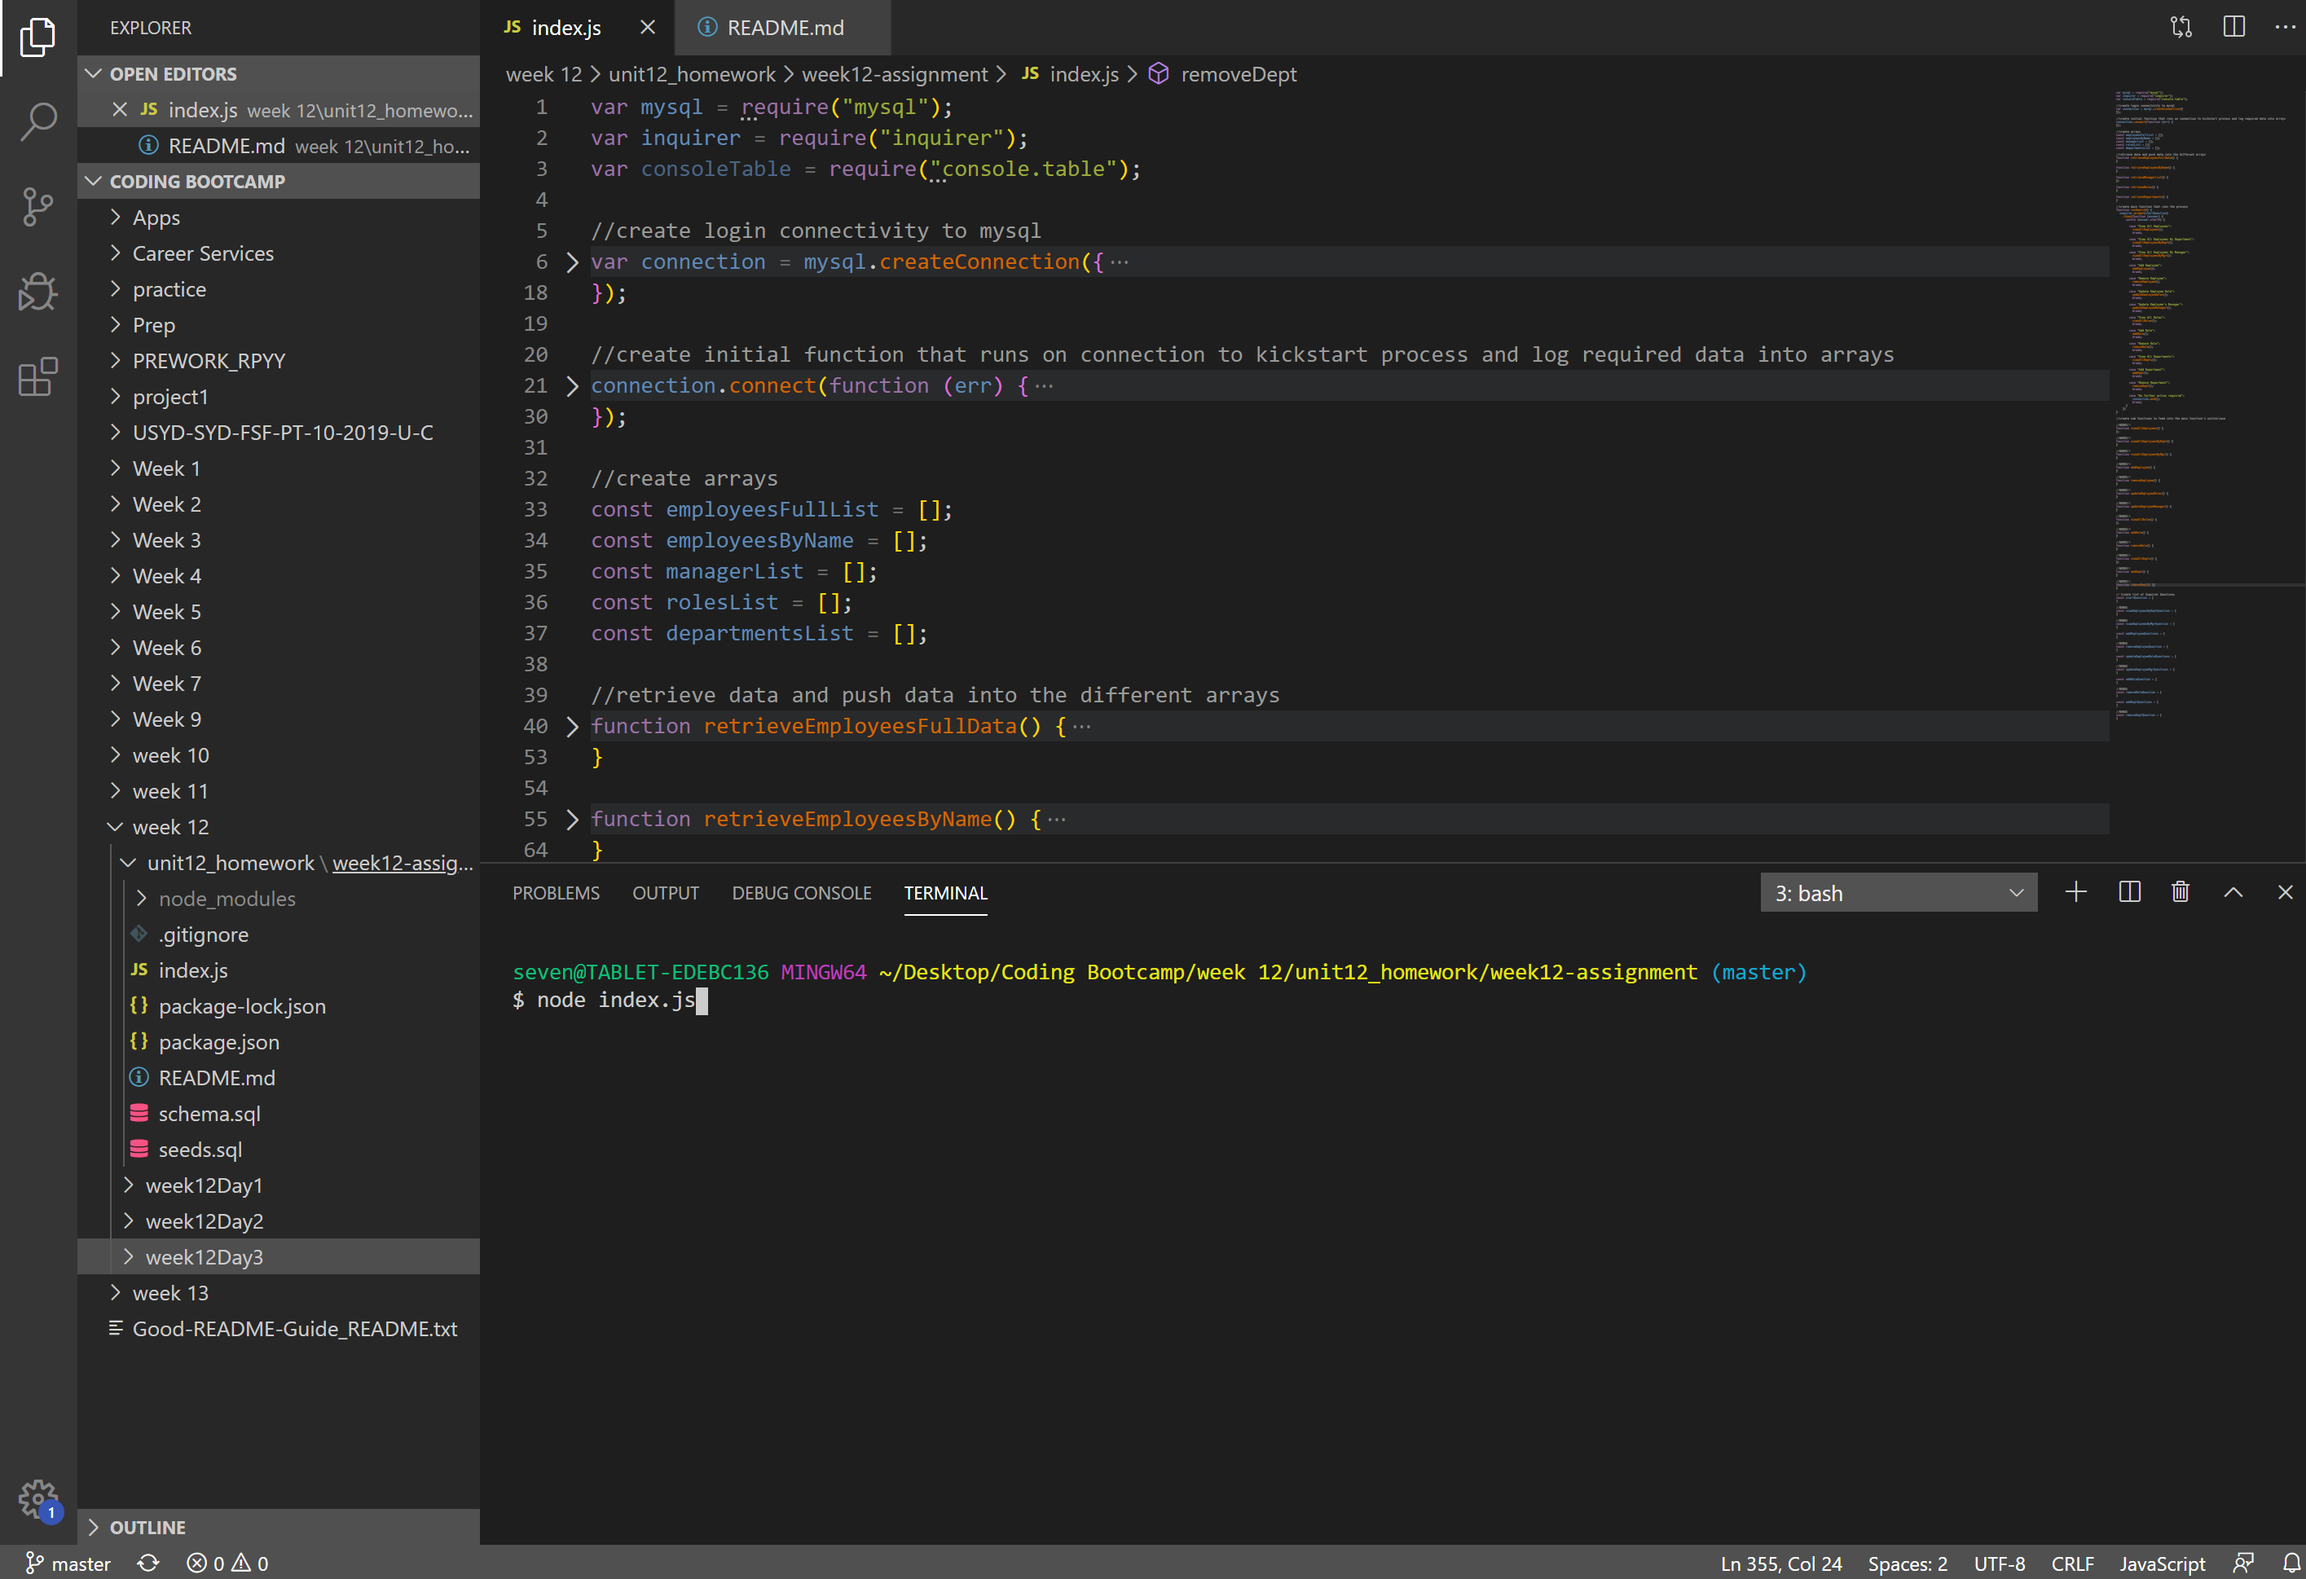
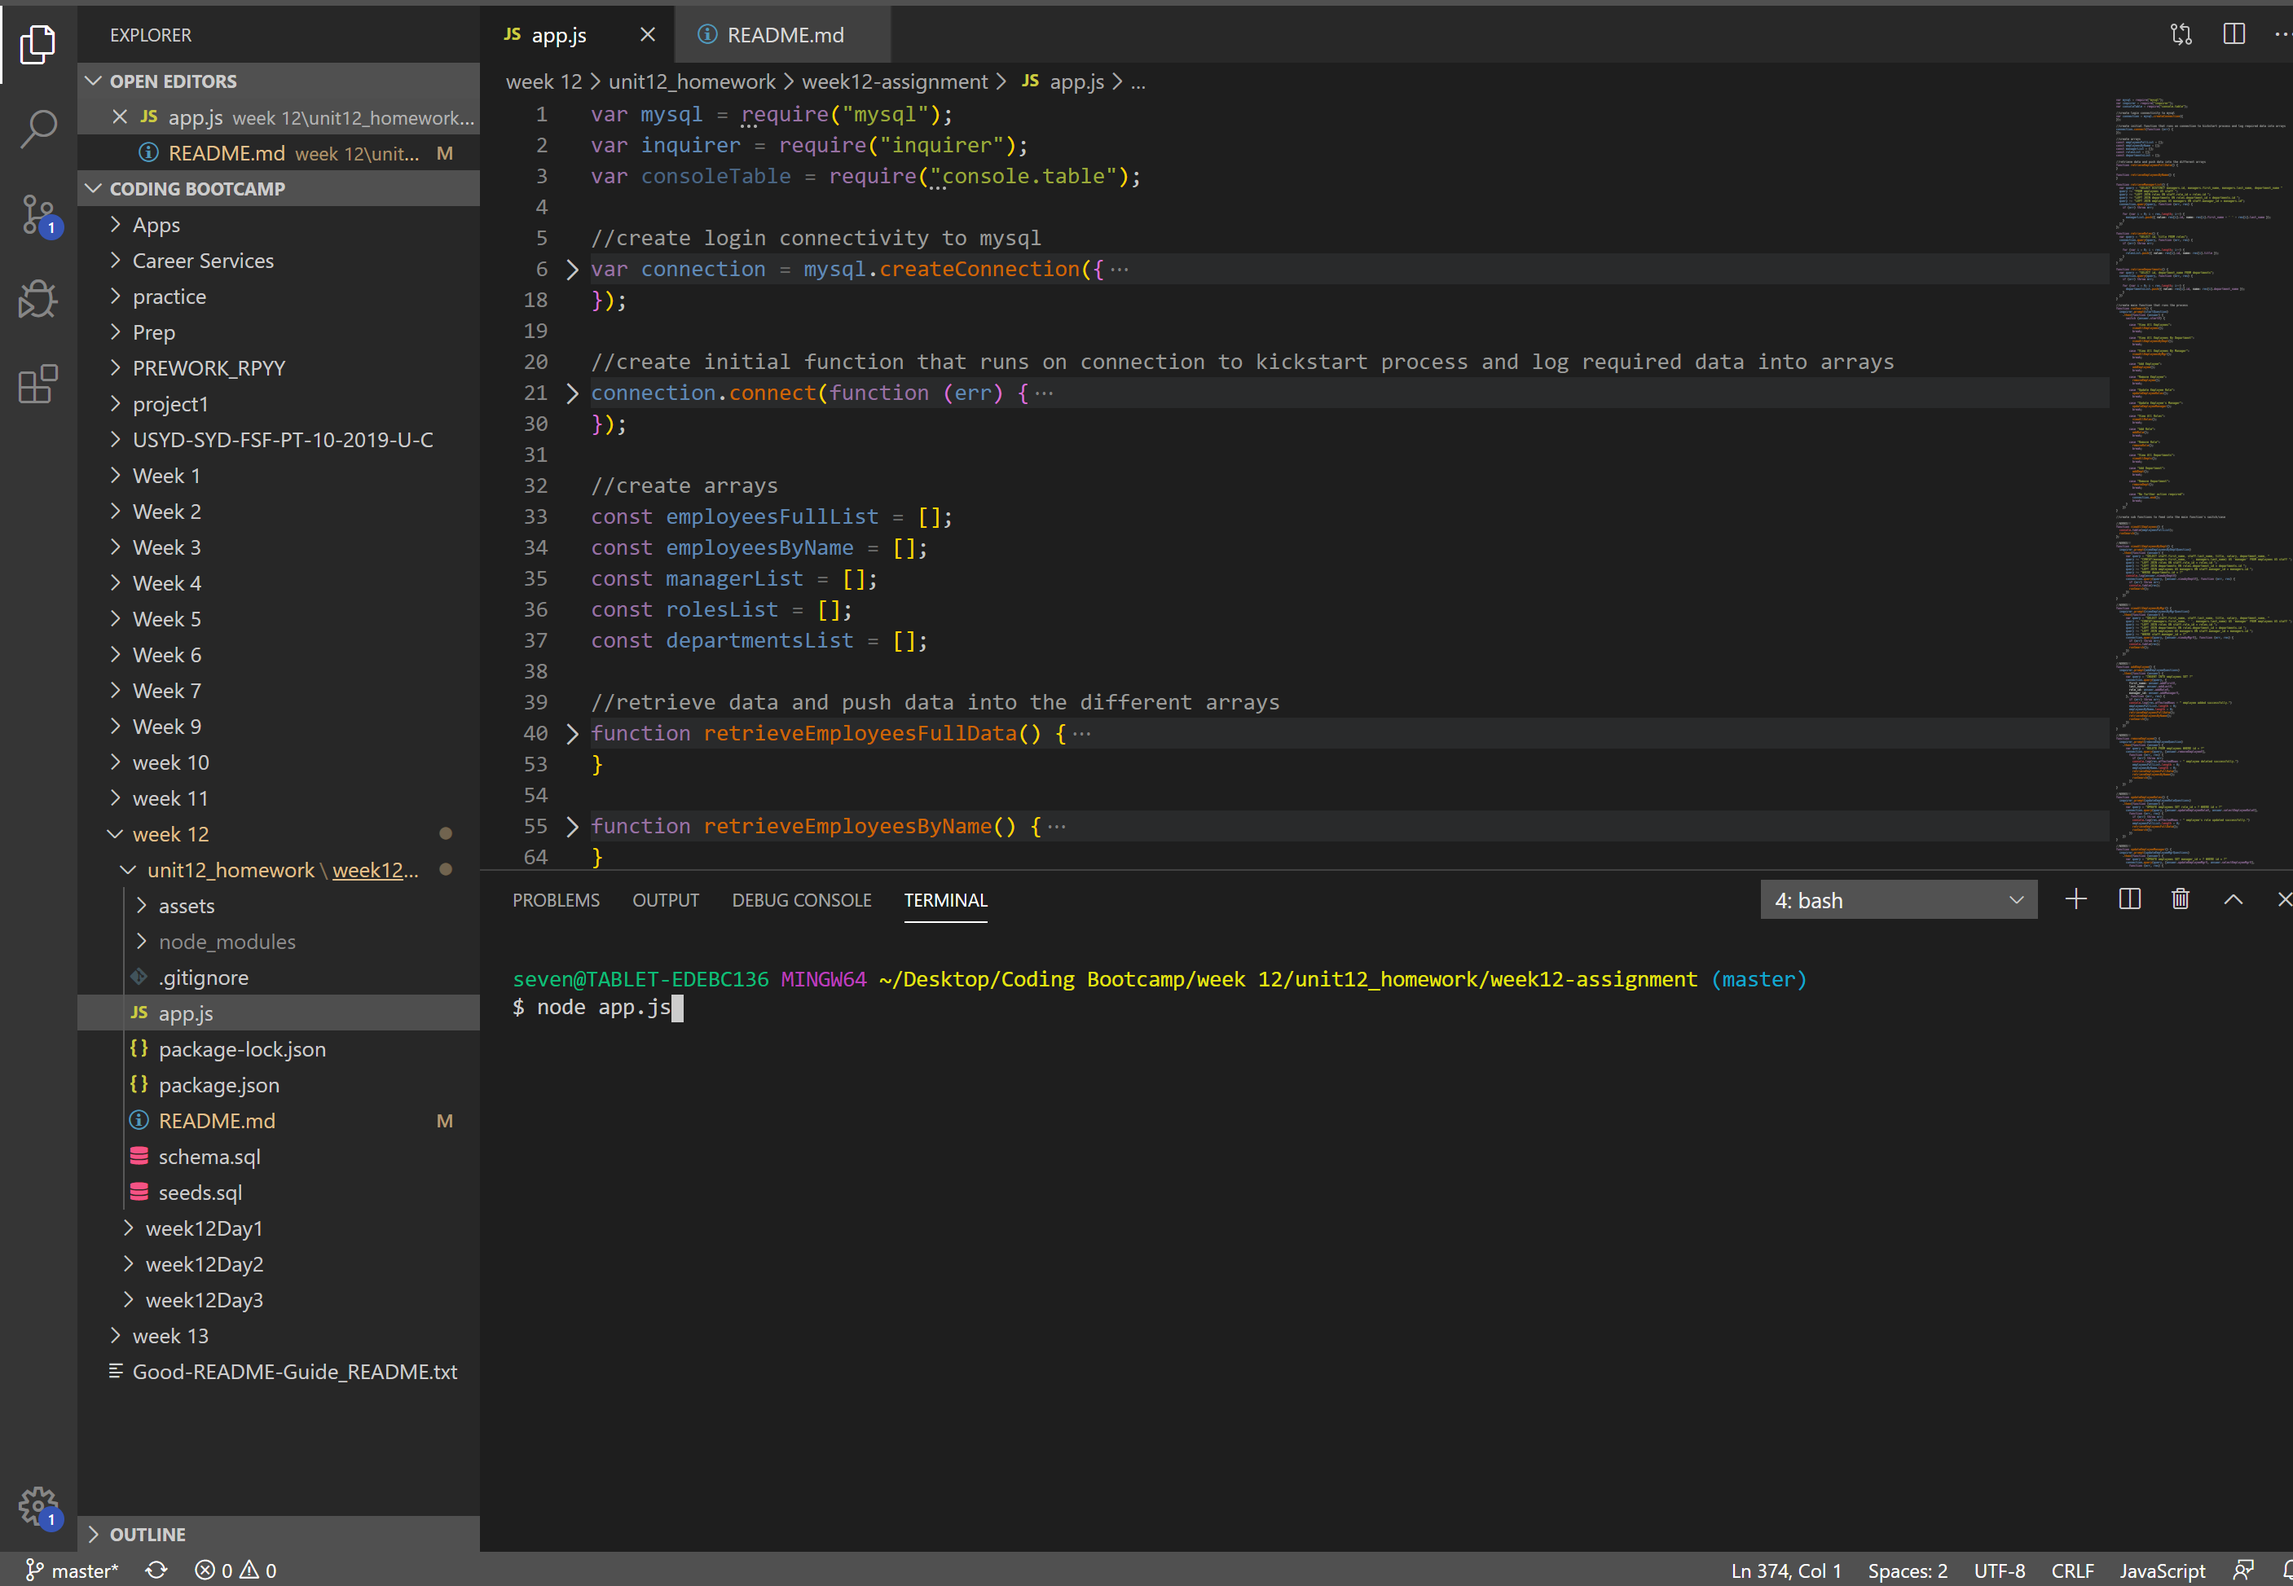
replaced 2 screenshots for app.js

diff --git a/README.md b/README.md
@@ -12,7 +12,7 @@ This is performed by designing questions using the NPM Inquirer package, then re
 
 ## Usage 
 
-1. Open the Gitbash terminal and type 'node index.js' and press 'enter'.
+1. Open the Gitbash terminal and type 'node app.js' and press 'enter'.
 https://github.com/sevenspell/week12-assignment/blob/master/assets/Screenshot1.png
 2. Select one of the choices offered. (In this screenshot example, 'View All Employees' was chosen.)
 https://github.com/sevenspell/week12-assignment/blob/master/assets/Screenshot2.png
